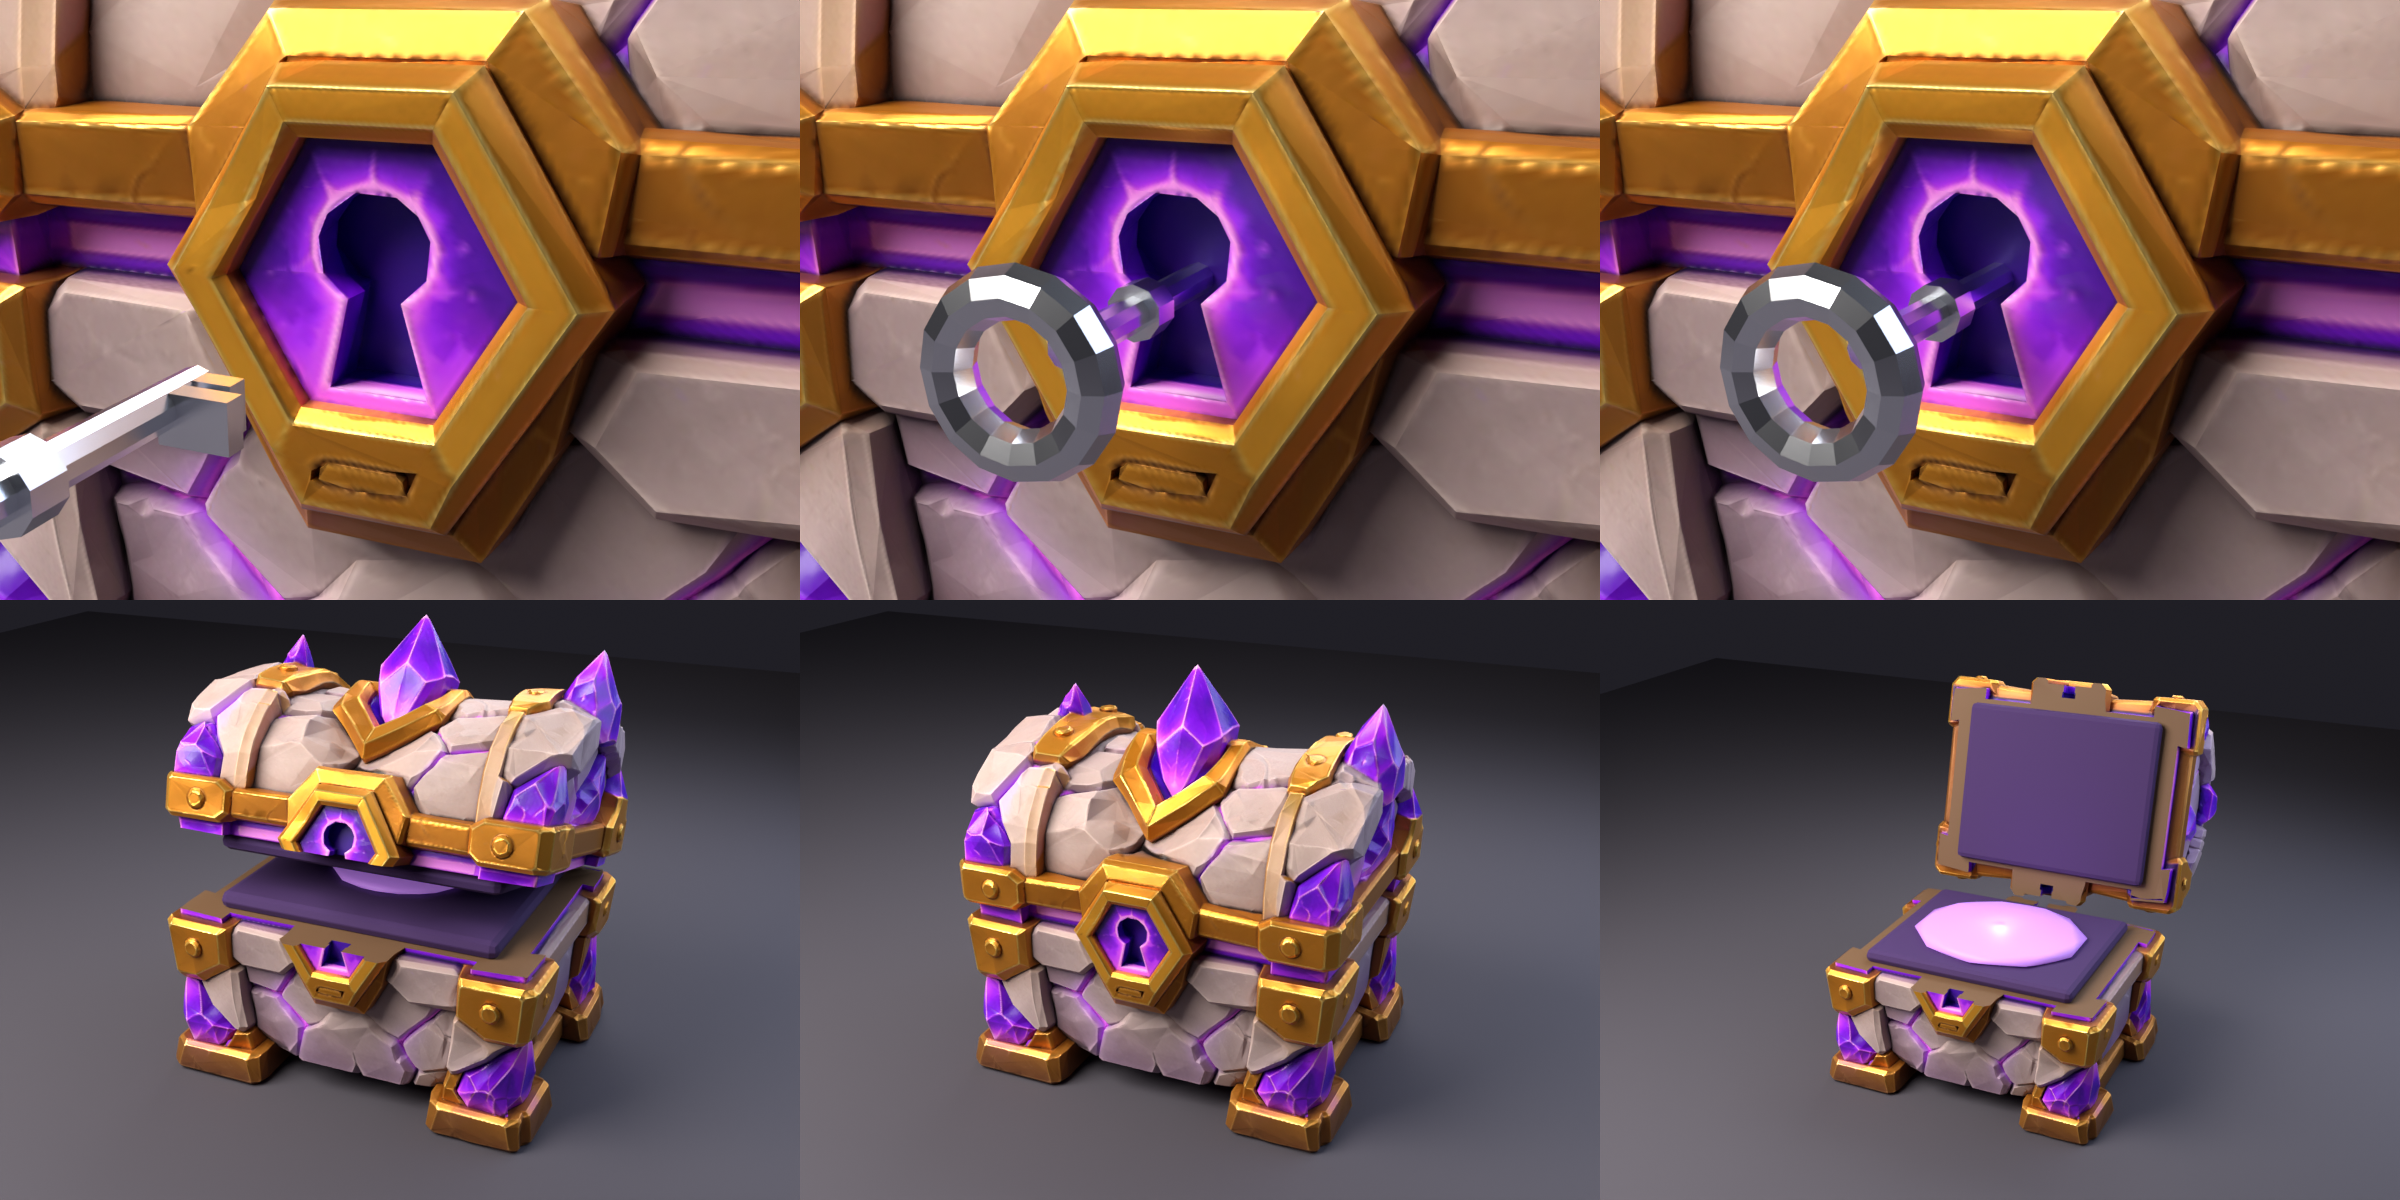
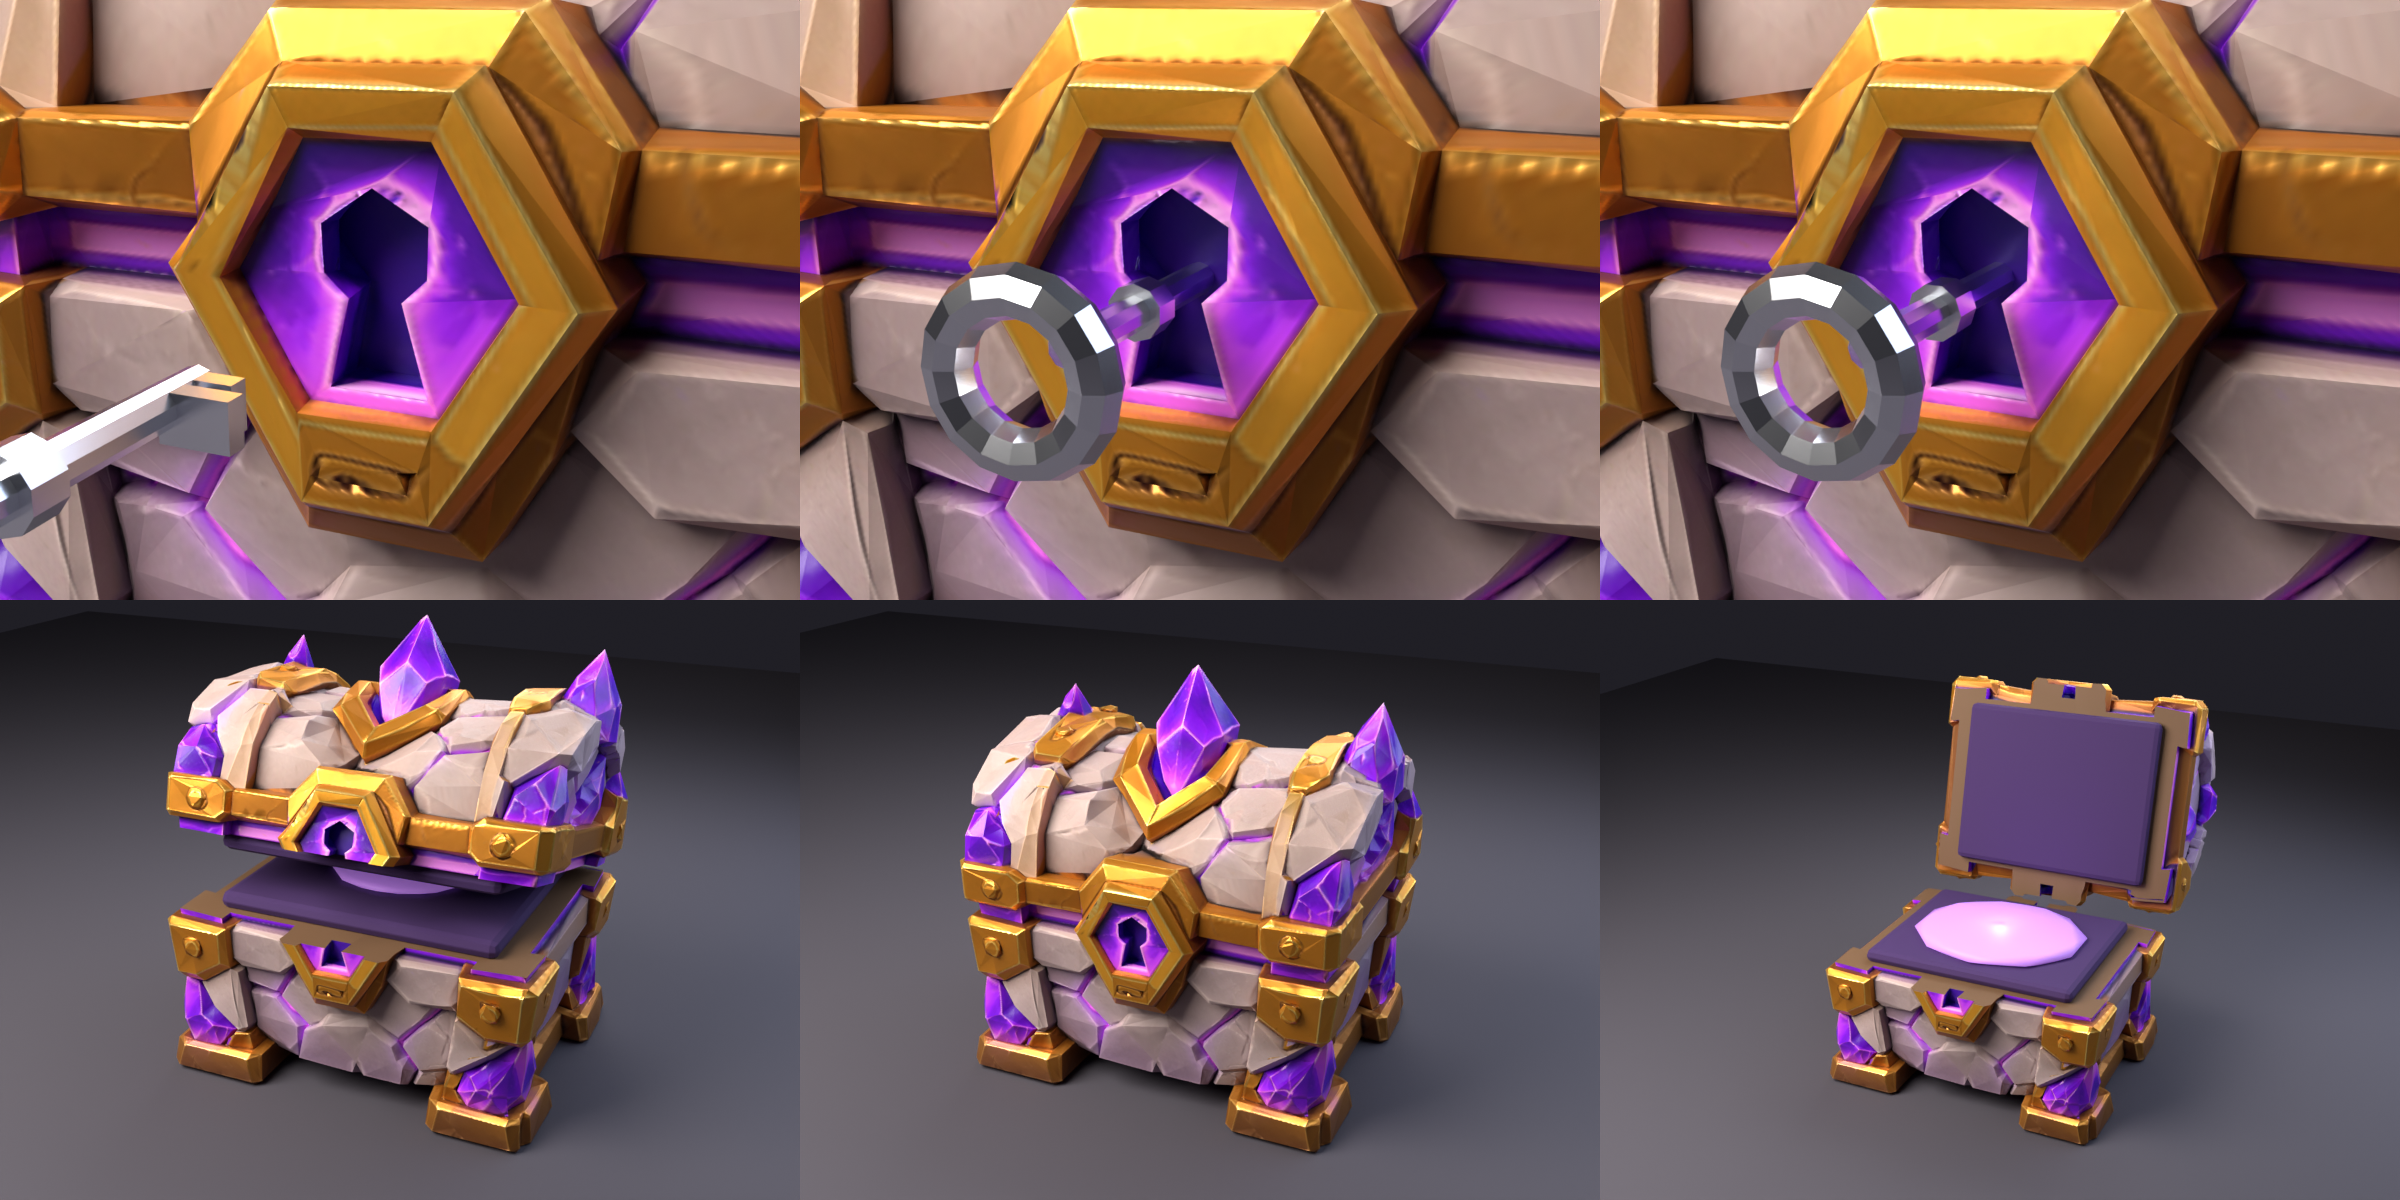
art: Magic chest cut to ~5k triangles (decimate before cut, new max-tris arg)
Claude-Session: https://claude.ai/code/session_01QKQCdbWrTZyjAXodHRdft9

diff --git a/Tools/Blender/cut_lid_from_meshy_fbx.py b/Tools/Blender/cut_lid_from_meshy_fbx.py
@@ -5,9 +5,9 @@ and, when a keyhole position is given, Key (a silver key already in the "inserte
 Both cut faces get a dark-wood rim plus a bevelled lining pad (raised in Body, hung under the lid) instead of a bare filled cap.
 There is no Seal or Binding layer: the lock and bands are baked into the Meshy texture (BoxOpenSequence skips missing layers).
 
-Run:  python cut_lid_from_meshy_fbx.py -- <dir with fbx + png maps> <out.glb> <root name> <seam z in source units> <target height m> [tex size] ["x,y,z" keyhole in source units] ["r,g,b" glow colour] ["r,g,b" lining colour] [key scale]
+Run:  python cut_lid_from_meshy_fbx.py -- <dir with fbx + png maps> <out.glb> <root name> <seam z in source units> <target height m> [tex size] ["x,y,z" keyhole in source units] ["r,g,b" glow colour] ["r,g,b" lining colour] [key scale] [max tris]
   Glow and lining colours are linear 0-1 and optional; the defaults (warm gold glow, burgundy lining) reproduce Chest_Golden exactly.
-  Magic example: ... 1024 "0,-0.70,-0.10" "0.62,0.28,1.0" "0.05,0.02,0.11" 2.0   (source units for seam and keyhole; see Docs/Art/BanGiao3D.md)
+  Magic example: ... 1024 "0,-0.70,-0.10" "0.62,0.28,1.0" "0.05,0.02,0.11" 2.0 4700   (source units for seam and keyhole; see Docs/Art/BanGiao3D.md)
   Source FBX imports Z-up, centred on the origin. The seam is the height (source units) where the lid meets the body;
   find it with a vertex-height histogram or a side render. Front of the chest must face -Y (lock side); the hinge is at +Y.
 Needs Blender (`pip install bpy` works) and Pillow.
@@ -19,11 +19,12 @@ import mathutils
 from PIL import Image
 
 src_dir, out, name, seam_src, target_h = sys.argv[sys.argv.index("--") + 1:][:5]
-_a = sys.argv[sys.argv.index("--") + 1:] + ["1024", "", "", "", ""]
+_a = sys.argv[sys.argv.index("--") + 1:] + ["1024", "", "", "", "", ""]
 tex_size = int(_a[5]); keyhole_arg = _a[6]
 def _rgb(txt, default):
     return tuple(float(v) for v in txt.split(",")) + (1,) if txt else default
 glow_rgb = _rgb(_a[7], (1.0, 0.82, 0.45, 1)); lining_rgb = _rgb(_a[8], (0.16, 0.018, 0.03, 1))
+max_tris = int(_a[10]) if _a[10] else 0      # 0 = keep the source triangle count; else collapse-decimate to about this many before cutting
 key_scale = float(_a[9]) if _a[9] else 1.45   # Golden default; a big lock (Magic) wants a bigger key
 seam_src = float(seam_src); target_h = float(target_h)
 
@@ -36,6 +37,13 @@ obj.parent = None
 bpy.context.view_layer.objects.active = obj
 obj.select_set(True)
 bpy.ops.object.transform_apply(location=True, rotation=True, scale=True)
+
+if max_tris:
+    n0 = sum(len(p.vertices) - 2 for p in obj.data.polygons)
+    if n0 > max_tris:
+        dm = obj.modifiers.new("dec", "DECIMATE"); dm.ratio = max_tris / n0
+        bpy.ops.object.modifier_apply(modifier="dec")
+        print("decimated", n0, "->", sum(len(p.vertices) - 2 for p in obj.data.polygons))
 
 zs = [v.co.z for v in obj.data.vertices]
 zmin, zmax = min(zs), max(zs)

diff --git a/Docs/Art/BanGiao3D.md b/Docs/Art/BanGiao3D.md
@@ -193,16 +193,17 @@ Tham số: độ cao đường nối nắp theo đơn vị nguồn (0,03, nằm 
 
 ## Rương Magic (đá và tinh thể tím, khóa lục giác)
 
-`Assets/_Project/Art/Chests/Chest_Magic.glb`, **chưa gán chủ đề hay ID rương** vì danh sách chủ đề chưa chốt. Nguồn: FBX Meshy do chủ dự án cung cấp ở `Art/Source/MeshyChests/Magic/` (10,1 nghìn tam giác, Git LFS; chạy `git lfs pull`), không tốn credit mới. Tạo bằng cùng script với Golden, thêm ba tham số tùy chọn (màu glow, màu lót, cỡ chìa; bỏ trống thì ra y như Golden):
+`Assets/_Project/Art/Chests/Chest_Magic.glb`, **chưa gán chủ đề hay ID rương** vì danh sách chủ đề chưa chốt. Nguồn: FBX Meshy do chủ dự án cung cấp ở `Art/Source/MeshyChests/Magic/` (10,1 nghìn tam giác, Git LFS; bản game giảm còn ≈5 nghìn; chạy `git lfs pull`), không tốn credit mới. Tạo bằng cùng script với Golden, thêm bốn tham số tùy chọn (màu glow, màu lót, cỡ chìa, số tam giác tối đa; bỏ trống thì ra y như Golden):
 
 ```
-python cut_lid_from_meshy_fbx.py -- Assets/_Project/Art/Source/MeshyChests/Magic Assets/_Project/Art/Chests/Chest_Magic.glb Chest_Magic -0.13 0.6 1024 "0,-0.70,-0.10" "0.62,0.28,1.0" "0.05,0.02,0.11" 2.0
+python cut_lid_from_meshy_fbx.py -- Assets/_Project/Art/Source/MeshyChests/Magic Assets/_Project/Art/Chests/Chest_Magic.glb Chest_Magic -0.13 0.6 1024 "0,-0.70,-0.10" "0.62,0.28,1.0" "0.05,0.02,0.11" 2.0 4300
 ```
 
 - **Đường nối** z = -0,13 (đơn vị nguồn): rãnh tím giữa hai đai vàng, chỗ ít đỉnh nhất (13 đỉnh) nên các viên tinh thể không bị cắt đôi. Ổ khóa lục giác nằm vắt qua đường nối (nửa trên theo nắp), giống Golden.
 - **Hướng:** cả hai mặt ±Y đều có khóa nên không cần xoay; mặt trước vẫn là -Y.
 - **Kích thước:** cao 0,6 m (cả tinh thể), rộng ≈0,57 m, gần cỡ Golden (0,60 × 0,42). Cao hơn Golden vì tinh thể nhô lên.
-- **Cấu trúc:** root `Chest_Magic` gồm `Body` (4,9 nghìn tam giác), `Lid` (6,4 nghìn, gốc ở bản lề sau), `Glow` (quầng sáng **tím**), `Key` (chìa bạc cỡ 2,0, to hơn Golden vì ổ khóa lớn). Đệm lót **tím sẫm**. Hiệu ứng chìa dùng nguyên `BoxOpenSequence`, không đổi code.
+- **Cấu trúc:** root `Chest_Magic` gồm `Body` (2,2 nghìn tam giác), `Lid` (2,8 nghìn, gốc ở bản lề sau), `Glow` (quầng sáng **tím**), `Key` (chìa bạc cỡ 2,0, to hơn Golden vì ổ khóa lớn). Đệm lót **tím sẫm**. Hiệu ứng chìa dùng nguyên `BoxOpenSequence`, không đổi code.
+- **Tổng ≈5,06 nghìn tam giác:** script giảm mặt (Decimate collapse) từ 10,1 nghìn xuống 4,3 nghìn trước khi cắt, cộng đệm lót, glow, chìa. Hình dạng, viền vàng và tinh thể gần như không đổi so với bản 11 nghìn (xem ảnh kiểm tra); chỉ các mặt đá hơi thô hơn khi nhìn cận.
 - Texture ép 1024, có normal và metallic/roughness. Không có `Seal`, `Binding` (khóa và đai nằm trong texture).
 - Ảnh kiểm tra (dựng bằng Cycles CPU: chìa tới gần, cắm, xoay, hé nắp, đóng, mở toang): `Art/Source/render_chest_magic_open.png`. Bộ dựng: `Tools/Blender/cycles_chest_preview_setup.py` (đặt `CHEST_GLB`, `CHEST_EXPOSURE`).
 
